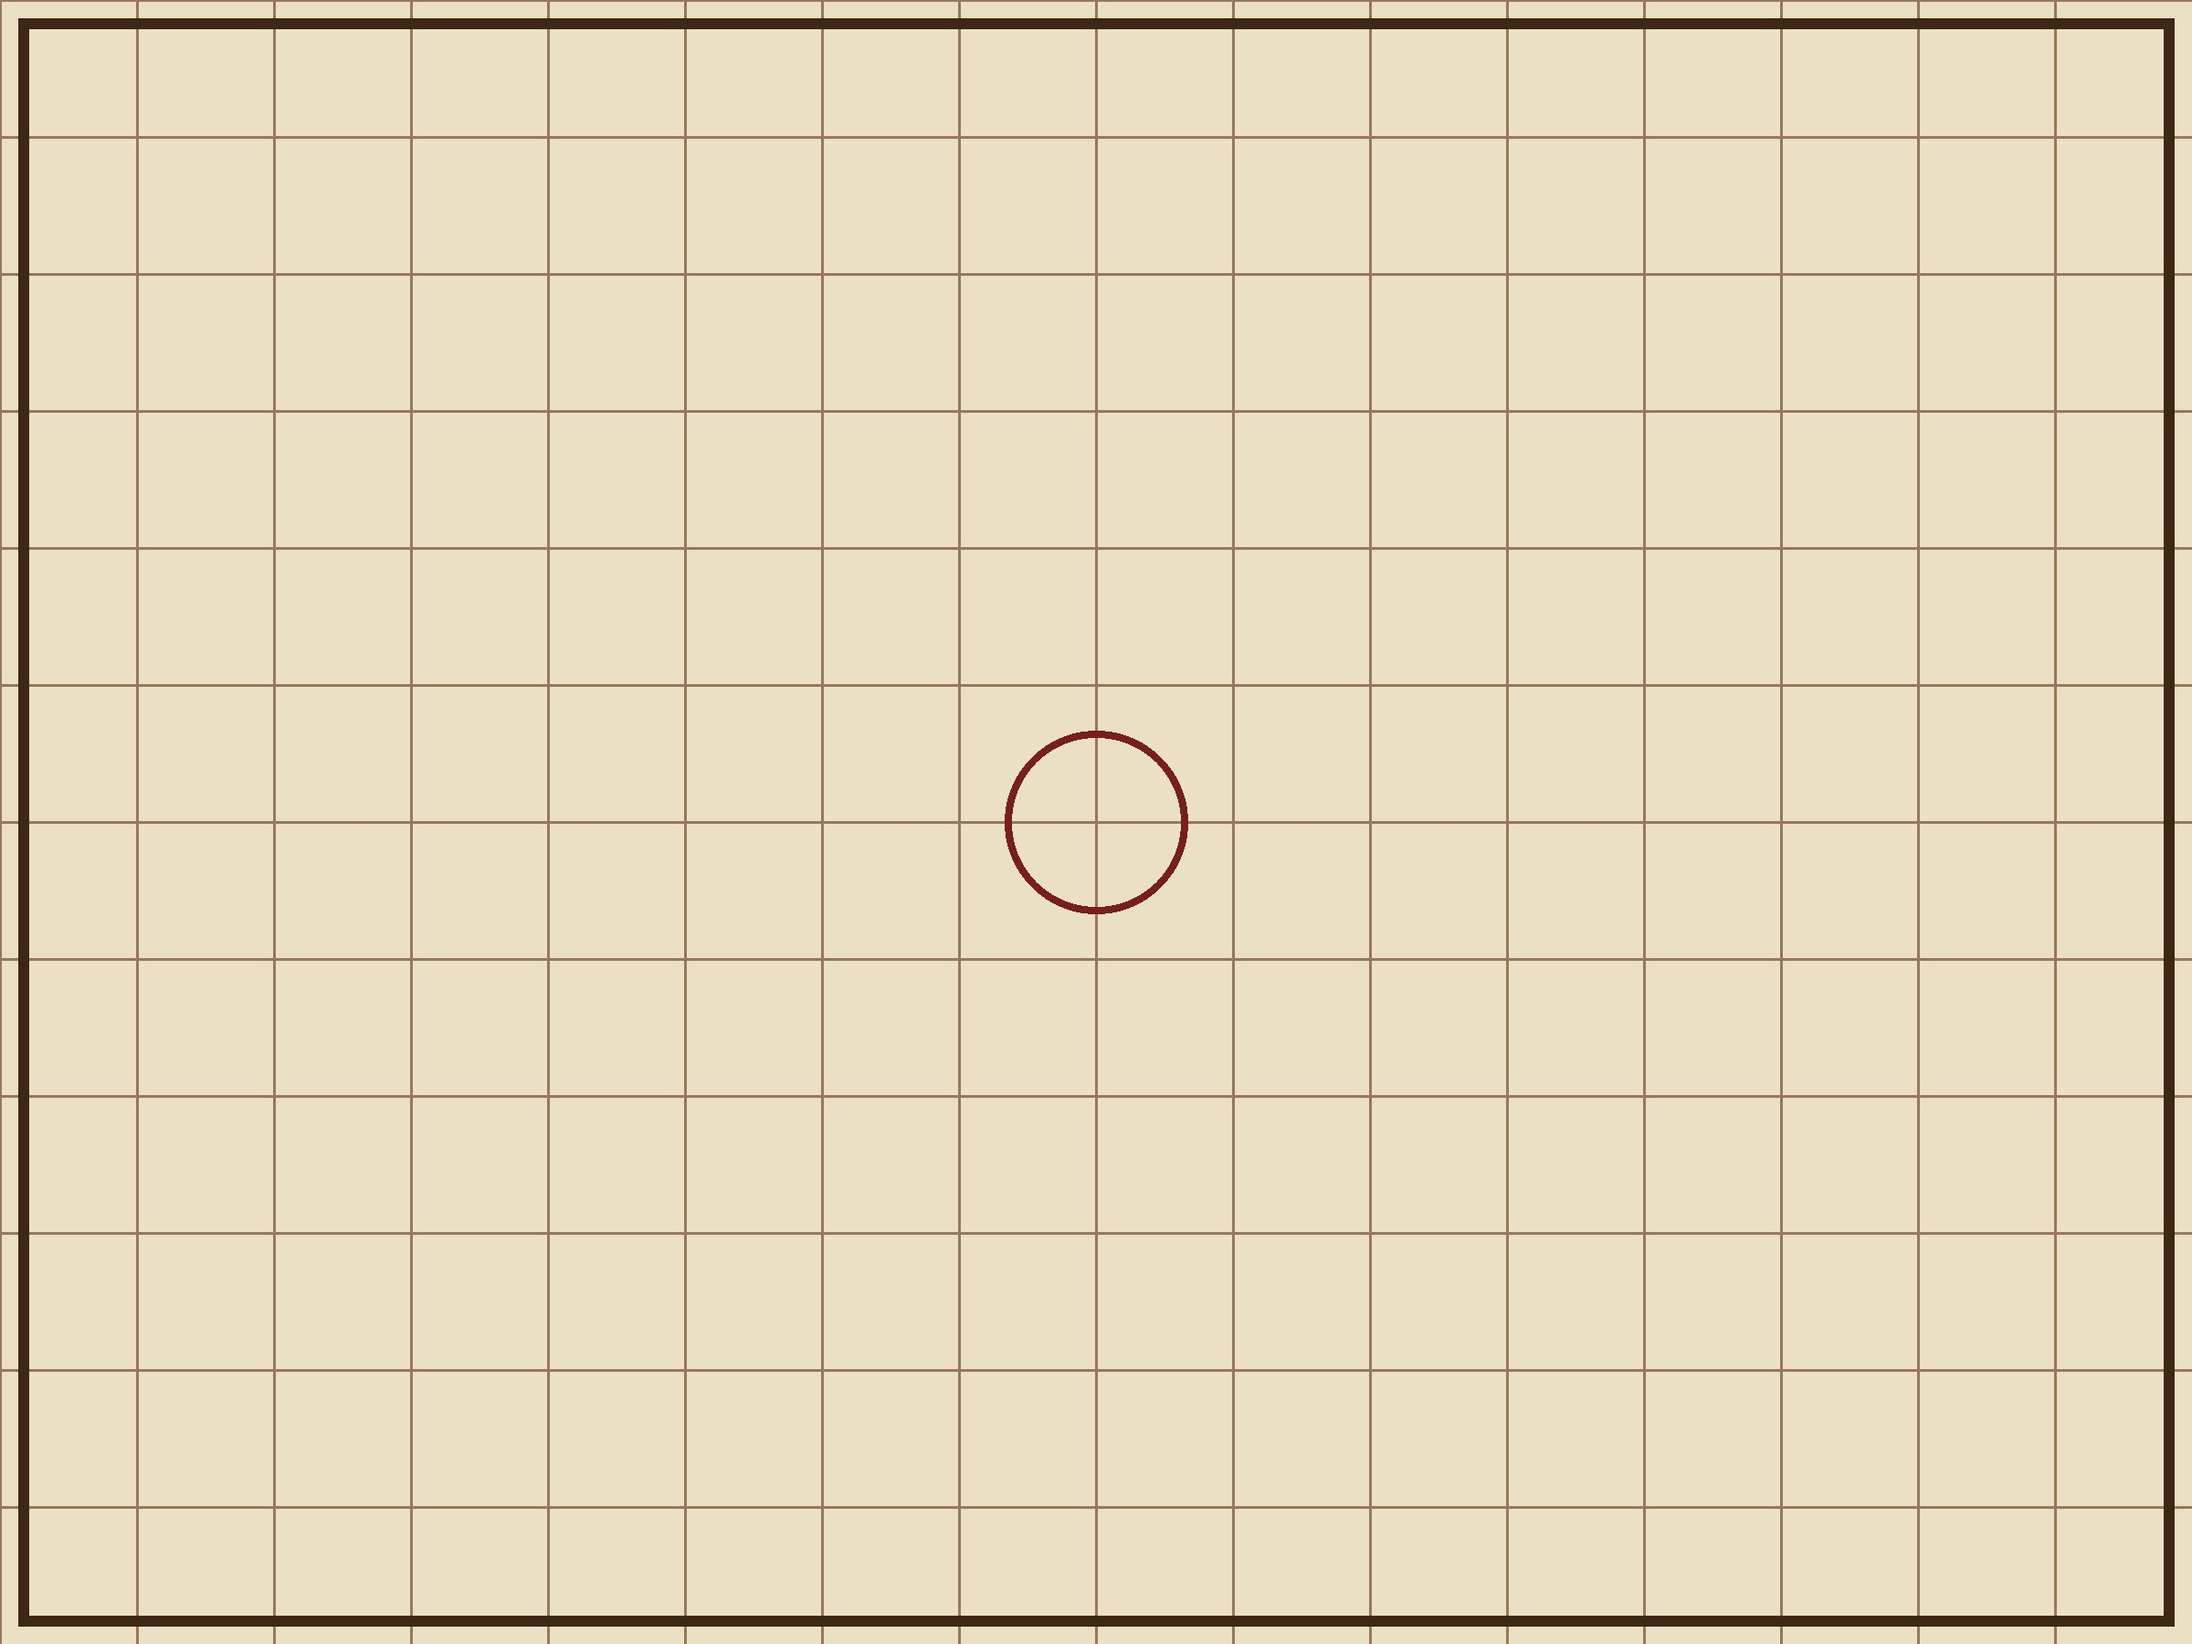
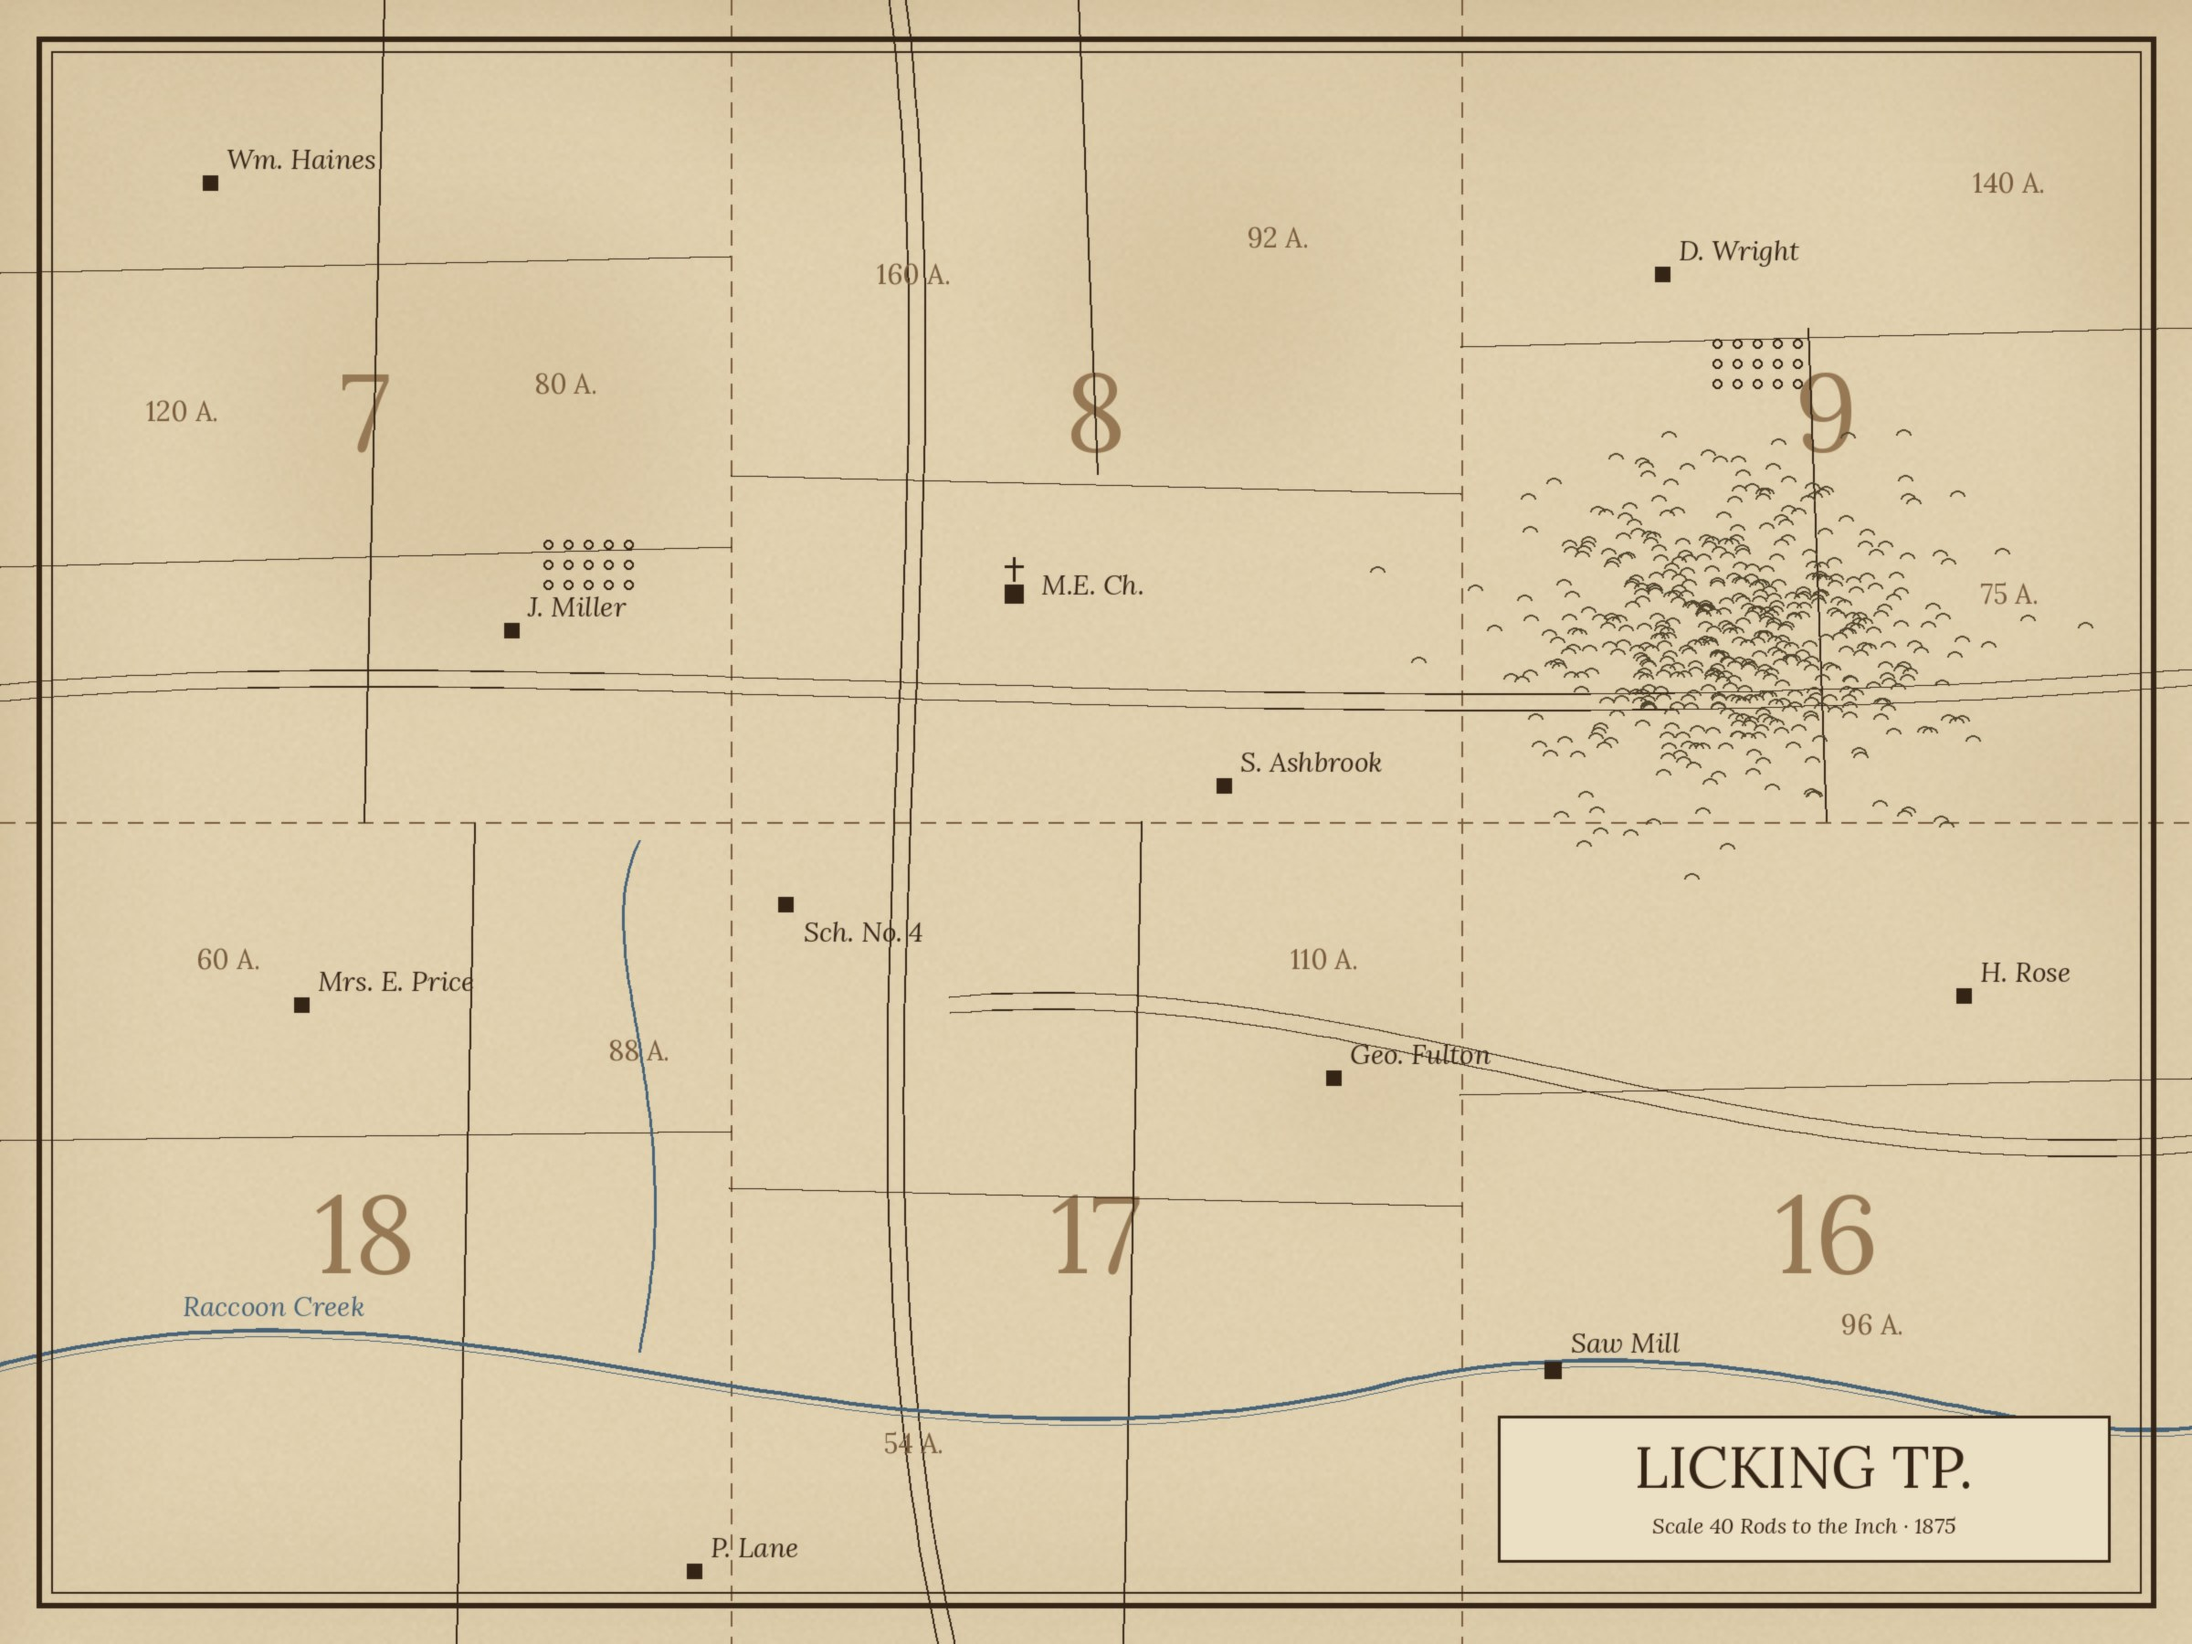
Preview: Clean Trail matched to the mockup, realistic test map and screenshots of every screen
Claude-Session: https://claude.ai/code/session_01RCi9dJxc9xFe37MmNbEAWY

diff --git a/app/src/main/java/com/brandonthomas/oldground/ui/HuntScreen.kt b/app/src/main/java/com/brandonthomas/oldground/ui/HuntScreen.kt
@@ -132,7 +132,7 @@ data class PinDraft(val geo: LngLat, val name: String, val kind: com.brandonthom
  */
 @OptIn(ExperimentalMaterial3Api::class, ExperimentalLayoutApi::class)
 @Composable
-fun HuntScreen(nav: Nav, mapId: String?, pinId: String?, startMode: String? = null) {
+fun HuntScreen(nav: Nav, mapId: String?, pinId: String?, startMode: String? = null, debug: String? = null) {
     val ctx = LocalContext.current
     val density = LocalDensity.current
     val data by Repo.data.collectAsState()
@@ -156,6 +156,14 @@ fun HuntScreen(nav: Nav, mapId: String?, pinId: String?, startMode: String? = nu
     var message by remember { mutableStateOf<Pair<String, String>?>(null) }
     var confirmDownload by remember { mutableStateOf<Pair<String, () -> Unit>?>(null) }
     var landInfo by remember { mutableStateOf<PublicLand.Info?>(null) }
+    // Used by the automated screenshots to open a sheet or dialog.
+    LaunchedEffect(debug) {
+        kotlinx.coroutines.delay(1500)
+        when (debug) {
+            "more" -> moreOpen = true
+            "pin" -> Repo.current.pins.firstOrNull { it.id == pinId }?.let { p -> draft = PinDraft(p.geo, p.name, p.kind, p.note, p.id) }
+        }
+    }
     val camMemory = remember { arrayOfNulls<Cam>(1) }
     val userTookOver = remember { BooleanArray(1) }
 
@@ -685,13 +693,8 @@ private fun BottomPanel(
             if (mode == Mode.OVERLAY) {
                 var v by remember { mutableFloatStateOf(settings.overlayOpacity) }
                 Row(verticalAlignment = Alignment.CenterVertically) {
-                    Text("$topLabel ${(v * 100).roundToInt()}%", Modifier.width(130.dp), color = C.ink, fontWeight = FontWeight.SemiBold, fontSize = 14.sp)
-                    Slider(
-                        value = v, onValueChange = { v = it }, valueRange = 0f..1f,
-                        onValueChangeFinished = { Repo.updateSettings { it.copy(overlayOpacity = v) } },
-                        colors = SliderDefaults.colors(thumbColor = C.accent, activeTrackColor = C.accent, inactiveTrackColor = C.line),
-                        modifier = Modifier.weight(1f),
-                    )
+                    Text("$topLabel ${(v * 100).roundToInt()}%", Modifier.width(118.dp), color = C.ink, fontWeight = FontWeight.SemiBold, fontSize = 13.sp)
+                    SlimSlider(v, { v = it }, { Repo.updateSettings { it.copy(overlayOpacity = v) } }, Modifier.weight(1f))
                 }
             }
         }

diff --git a/app/src/main/java/com/brandonthomas/oldground/ui/Widgets.kt b/app/src/main/java/com/brandonthomas/oldground/ui/Widgets.kt
@@ -27,6 +27,10 @@ import androidx.compose.ui.graphics.StrokeCap
 import androidx.compose.ui.graphics.StrokeJoin
 import androidx.compose.ui.semantics.contentDescription
 import androidx.compose.ui.semantics.semantics
+import androidx.compose.foundation.gestures.detectHorizontalDragGestures
+import androidx.compose.foundation.gestures.detectTapGestures
+import androidx.compose.ui.input.pointer.pointerInput
+import androidx.compose.ui.layout.onSizeChanged
 import androidx.compose.foundation.shape.RoundedCornerShape
 import androidx.compose.foundation.verticalScroll
 import androidx.compose.material3.AlertDialog
@@ -253,6 +257,36 @@ fun ToolButton(label: String, glyph: Glyph, onClick: () -> Unit, modifier: Modif
         GlyphIcon(glyph, if (kind == "danger") C.bad else fg)
         Spacer(Modifier.height(4.dp))
         Text(label, color = fg, fontSize = 12.sp, fontWeight = FontWeight.Bold, maxLines = 1)
+    }
+}
+
+/** A slim slider: thin track, small white thumb with a teal ring. */
+@Composable
+fun SlimSlider(value: Float, onChange: (Float) -> Unit, onDone: () -> Unit, modifier: Modifier = Modifier) {
+    var width by remember { mutableStateOf(1f) }
+    Canvas(
+        modifier
+            .height(28.dp)
+            .onSizeChanged { width = it.width.toFloat().coerceAtLeast(1f) }
+            .pointerInput(Unit) {
+                detectTapGestures { o -> onChange((o.x / width).coerceIn(0f, 1f)); onDone() }
+            }
+            .pointerInput(Unit) {
+                detectHorizontalDragGestures(onDragEnd = onDone) { change, _ ->
+                    change.consume()
+                    onChange((change.position.x / width).coerceIn(0f, 1f))
+                }
+            }
+            .semantics { contentDescription = "Fade ${(value * 100).toInt()} percent" },
+    ) {
+        val r = 10.dp.toPx()
+        val y = size.height / 2
+        val x = r + (size.width - 2 * r) * value
+        drawLine(C.line, Offset(r, y), Offset(size.width - r, y), 4.dp.toPx(), StrokeCap.Round)
+        drawLine(C.accent, Offset(r, y), Offset(x, y), 4.dp.toPx(), StrokeCap.Round)
+        drawCircle(Color(0x2214201D), r + 1.5.dp.toPx(), Offset(x, y + 1.dp.toPx()))
+        drawCircle(Color.White, r, Offset(x, y))
+        drawCircle(C.accent, r - 1.dp.toPx(), Offset(x, y), style = Stroke(2.5.dp.toPx()))
     }
 }
 

diff --git a/app/src/main/java/com/brandonthomas/oldground/MainActivity.kt b/app/src/main/java/com/brandonthomas/oldground/MainActivity.kt
@@ -22,7 +22,7 @@ import com.brandonthomas.oldground.ui.PinsScreen
 sealed interface Screen {
     data object Home : Screen
     data class Align(val mapId: String) : Screen
-    data class Hunt(val mapId: String?, val pinId: String? = null, val mode: String? = null) : Screen
+    data class Hunt(val mapId: String?, val pinId: String? = null, val mode: String? = null, val debug: String? = null) : Screen
     data object Pins : Screen
 }
 
@@ -48,7 +48,15 @@ class MainActivity : ComponentActivity() {
         // Used by the automated test to open a map straight away.
         val start = buildList<Screen> {
             add(Screen.Home)
-            intent?.getStringExtra("openMap")?.let { add(Screen.Hunt(it, mode = intent.getStringExtra("mode"))) }
+            val i = intent
+            val mapExtra = i?.getStringExtra("openMap")?.takeIf { it != "none" }
+            when (i?.getStringExtra("screen")) {
+                "align" -> mapExtra?.let { add(Screen.Align(it)) }
+                "pins" -> add(Screen.Pins)
+                else -> if (i?.hasExtra("openMap") == true) {
+                    add(Screen.Hunt(mapExtra, i.getStringExtra("pin"), i.getStringExtra("mode"), i.getStringExtra("debug")))
+                }
+            }
         }
         setContent { OldGroundTheme { App(start) } }
     }
@@ -75,7 +83,7 @@ private fun App(start: List<Screen>) {
         when (s) {
             Screen.Home -> HomeScreen(nav)
             is Screen.Align -> AlignScreen(nav, s.mapId)
-            is Screen.Hunt -> HuntScreen(nav, s.mapId, s.pinId, s.mode)
+            is Screen.Hunt -> HuntScreen(nav, s.mapId, s.pinId, s.mode, s.debug)
             Screen.Pins -> PinsScreen(nav)
         }
     }

diff --git a/app/src/main/java/com/brandonthomas/oldground/ui/HomeScreen.kt b/app/src/main/java/com/brandonthomas/oldground/ui/HomeScreen.kt
@@ -178,10 +178,6 @@ fun HomeScreen(nav: Nav) {
                     Pill("Hunt", { nav.go(Screen.Hunt(hero?.id)) }, kind = "primary")
                 }
             }
-            if (hero != null) {
-                Spacer(Modifier.height(10.dp))
-                Pill("Hunt without an old map", { nav.go(Screen.Hunt(null)) }, Modifier.fillMaxWidth(), kind = "tint")
-            }
 
             // ---- old maps ----
             Spacer(Modifier.height(22.dp))
@@ -210,6 +206,22 @@ fun HomeScreen(nav: Nav) {
                     onMenu = { menuFor = m },
                 )
                 Spacer(Modifier.height(10.dp))
+            }
+
+            // Hunting with today's maps only.
+            Row(
+                Modifier.fillMaxWidth().card().clickable { nav.go(Screen.Hunt(null)) }.padding(10.dp),
+                verticalAlignment = Alignment.CenterVertically,
+                horizontalArrangement = Arrangement.spacedBy(12.dp),
+            ) {
+                Box(Modifier.size(58.dp).clip(RoundedCornerShape(12.dp)).background(C.accentSoft), contentAlignment = Alignment.Center) {
+                    GlyphIcon(Glyph.LAYERS, C.accent, Modifier.size(26.dp))
+                }
+                Column(Modifier.weight(1f)) {
+                    Text("Today's maps only", fontWeight = FontWeight.Bold, fontSize = 16.sp, color = C.ink)
+                    Text("LiDAR, satellite, topo and public land", color = C.muted, fontSize = 13.sp, maxLines = 1)
+                }
+                GlyphIcon(Glyph.CHEVRON, C.faint, Modifier.size(20.dp))
             }
 
             // ---- at a glance ----
